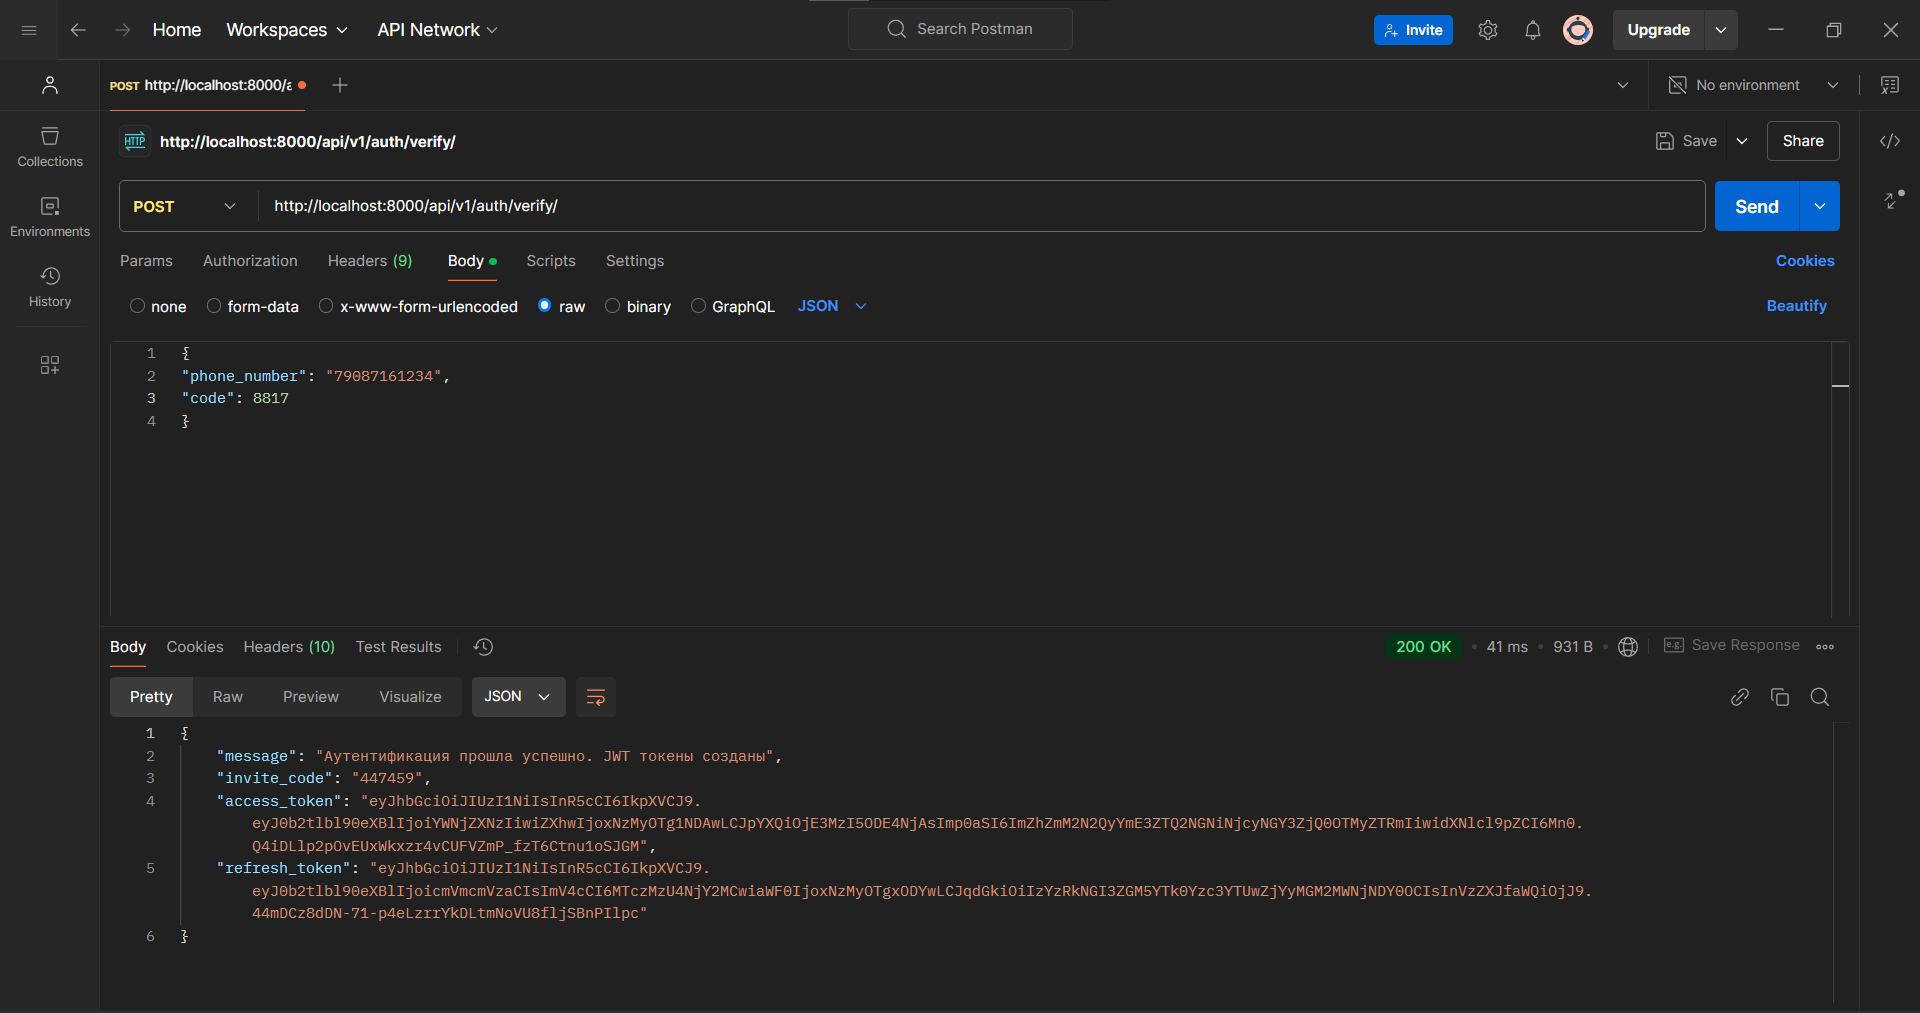
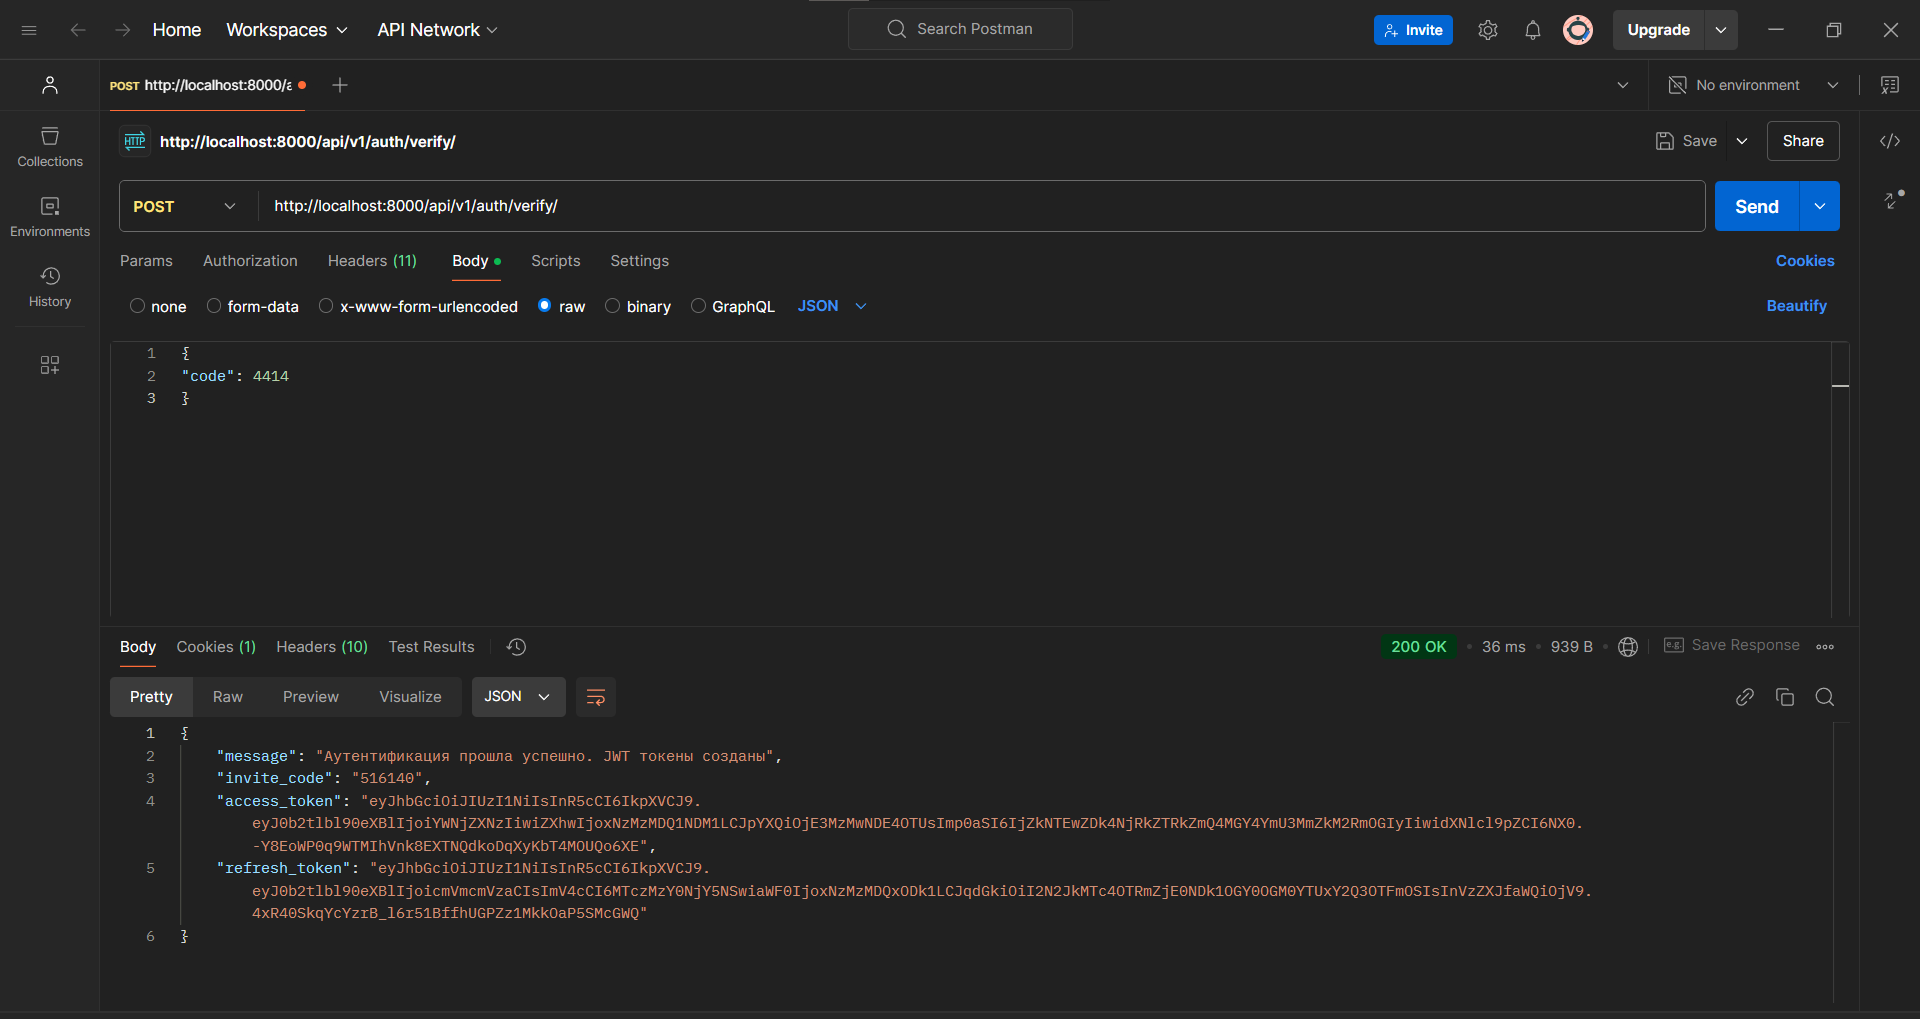
add openapi schemas and add storing a phone number in a session

diff --git a/backend/users/views.py b/backend/users/views.py
@@ -2,7 +2,6 @@ import time
 
 from drf_yasg.utils import swagger_auto_schema
 from rest_framework import status
-from rest_framework.generics import ListCreateAPIView
 from rest_framework.permissions import AllowAny, IsAuthenticated
 from rest_framework.response import Response
 from rest_framework.views import APIView
@@ -12,11 +11,24 @@ from .models import AuthCode, User
 from .serializers import (AuthCodeSerializer, AuthSerializer,
                           InviteCodeSerializer, ProfileSerializer)
 
+from .schemas import (
+    auth_request_schema, auth_response_schema_201, auth_response_schema_400,
+    verify_request_schema, verify_response_schema_200, verify_response_schema_400,
+    profile_get_response_schema, invite_post_request_schema,
+    invite_post_response_schema_200, invite_post_response_schema_400
+)
+
 
 class AuthView(APIView):
     permission_classes = [AllowAny]
 
-    @swagger_auto_schema(request_body=AuthSerializer)
+    @swagger_auto_schema(
+        request_body=auth_request_schema,
+        responses={
+            201: auth_response_schema_201,
+            400: auth_response_schema_400,
+        }
+    )
     def post(self, request):
         serializer = AuthSerializer(data=request.data)
 
@@ -25,29 +37,38 @@ class AuthView(APIView):
 
             user, _ = User.objects.get_or_create(phone_number=phone_number)
             AuthCode.objects.create(user=user)
+            request.session['phone_number'] = phone_number
 
             time.sleep(2)
 
-            return Response({'message': 'Код отправлен'}, status=status.HTTP_200_OK)
+            return Response({'message': 'Код отправлен'}, status=status.HTTP_201_CREATED)
 
         return Response(serializer.errors, status=status.HTTP_400_BAD_REQUEST)
 
 
 class AuthVerifyCodeView(APIView):
 
-    @swagger_auto_schema(request_body=AuthCodeSerializer)
+    @swagger_auto_schema(
+        request_body=verify_request_schema,
+        responses={
+            200: verify_response_schema_200,
+            400: verify_response_schema_400,
+        }
+    )
     def post(self, request):
         serializer = AuthCodeSerializer(data=request.data)
         if serializer.is_valid():
 
-            phone_number = serializer.validated_data['phone_number']
+            phone_number = request.session.get('phone_number')
             code = serializer.validated_data['code']
+            if not phone_number:
+                return Response({'message': 'Сессия истекла, попробуйте заново'}, status=status.HTTP_400_BAD_REQUEST)
 
             try:
                 user = User.objects.get(phone_number=phone_number)
                 auth_code = AuthCode.objects.get(user=user, code=code)
             except (User.DoesNotExist, AuthCode.DoesNotExist):
-                return Response({'message': 'Неверный номер телефона или код'}, status=status.HTTP_400_BAD_REQUEST)
+                return Response({'message': 'Неверный код'}, status=status.HTTP_400_BAD_REQUEST)
 
             auth_code.delete()
 
@@ -70,12 +91,23 @@ class AuthVerifyCodeView(APIView):
 class ProfileView(APIView):
     permission_classes = [IsAuthenticated]
 
+    @swagger_auto_schema(
+        responses={
+            200: profile_get_response_schema
+        }
+    )
     def get(self, request, *args, **kwargs):
         user = request.user
         serializer = ProfileSerializer(user)
         return Response(serializer.data)
 
-    @swagger_auto_schema(request_body=InviteCodeSerializer)
+    @swagger_auto_schema(
+        request_body=invite_post_request_schema,
+        responses={
+            200: invite_post_response_schema_200,
+            400: invite_post_response_schema_400,
+        }
+    )
     def post(self, request, *args, **kwargs):
         serializer = InviteCodeSerializer(data=request.data)
         serializer.is_valid(raise_exception=True)

diff --git a/backend/users/schemas.py b/backend/users/schemas.py
@@ -1,0 +1,83 @@
+from drf_yasg import openapi
+
+# Request AuthView
+auth_request_schema = openapi.Schema(
+    type=openapi.TYPE_OBJECT,
+    properties={
+        'phone_number': openapi.Schema(type=openapi.TYPE_STRING, example='79087777777'),
+    },
+    required=['phone_number']
+)
+
+# Response AuthView
+auth_response_schema_201 = openapi.Schema(
+    type=openapi.TYPE_OBJECT,
+    properties={
+        'message': openapi.Schema(type=openapi.TYPE_STRING, example='Код отправлен'),
+    }
+)
+
+auth_response_schema_400 = openapi.Schema(
+    type=openapi.TYPE_OBJECT,
+    properties={
+        'phone_number': openapi.Schema(type=openapi.TYPE_STRING, example='Некорректный номер телефона'),
+    }
+)
+
+# Request AuthVerifyCodeView
+verify_request_schema = openapi.Schema(
+    type=openapi.TYPE_OBJECT,
+    properties={
+        'code': openapi.Schema(type=openapi.TYPE_INTEGER, example=1234),
+    },
+    required=['code']
+)
+
+# Response AuthVerifyCodeView
+verify_response_schema_200 = openapi.Schema(
+    type=openapi.TYPE_OBJECT,
+    properties={
+        'message': openapi.Schema(type=openapi.TYPE_STRING, example='Аутентификация прошла успешно. JWT токены созданы'),
+        'invite_code': openapi.Schema(type=openapi.TYPE_STRING, example='987654'),
+        'access_token': openapi.Schema(type=openapi.TYPE_STRING, example='eyJhbGciOiJIUzI1NiIsInR5cCI6IkpXVCJ9...'),
+        'refresh_token': openapi.Schema(type=openapi.TYPE_STRING, example='dGhpcyBpcyBhIHJlZnJlc2ggdG9rZW4uLi4u'),
+    }
+)
+
+verify_response_schema_400 = openapi.Schema(
+    type=openapi.TYPE_OBJECT,
+    properties={
+        'message': openapi.Schema(type=openapi.TYPE_STRING, example='Неверный код'),
+    }
+)
+
+# GET response ProfileView
+profile_get_response_schema = openapi.Schema(
+    type=openapi.TYPE_OBJECT,
+    properties={
+        'phone_number': openapi.Schema(type=openapi.TYPE_STRING, example='79087777777'),
+        'invite_code': openapi.Schema(type=openapi.TYPE_STRING, example='777777'),
+    }
+)
+
+invite_post_request_schema = openapi.Schema(
+    type=openapi.TYPE_OBJECT,
+    properties={
+        'invite_code': openapi.Schema(type=openapi.TYPE_STRING, example='123456'),
+    },
+    required=['invite_code']
+)
+
+invite_post_response_schema_200 = openapi.Schema(
+    type=openapi.TYPE_OBJECT,
+    properties={
+        'message': openapi.Schema(type=openapi.TYPE_STRING, example='Инвайт-код успешно активирован'),
+    }
+)
+
+invite_post_response_schema_400 = openapi.Schema(
+    type=openapi.TYPE_OBJECT,
+    properties={
+        'message': openapi.Schema(type=openapi.TYPE_STRING, example='Нельзя активировать свой же код'),
+    }
+)

diff --git a/backend/users/serializers.py b/backend/users/serializers.py
@@ -4,11 +4,10 @@ from .models import AuthCode, User
 
 
 class AuthCodeSerializer(serializers.ModelSerializer):
-    phone_number = serializers.CharField(max_length=12)
 
     class Meta:
         model = AuthCode
-        fields = ('phone_number', 'code',)
+        fields = ('code',)
 
 
 class AuthSerializer(serializers.Serializer):

diff --git a/README.md b/README.md
@@ -44,16 +44,15 @@ DATABASE_PORT=5432
 
 Основные эндпоинты:
 
-- **http://localhost:8000/api/v1/auth/entry/**: Используется для ввода номера телефона и генерации кода . Если пользователь с таким номером не существует, он создается.
+- **http://localhost:8000/api/v1/auth/entry/**: Используется для ввода номера телефона и генерации кода, а так же передачи номера телефона в сессию, для последущей верификации. Если пользователь с таким номером не существует, он создается.
   ```json
   {
     "phone_number": "79087777777"
   }
   ```
-- **http://localhost:8000/api/v1/auth/verify/**: Используется для подтверждения по коду. Фронт передает номер телефона и код который ввел пользователь. Для простоты код хранится в БД, а после входа удаляется, но я бы лучше использовал сессии. Так же, выдаются access_token и refresh_token.
+- **http://localhost:8000/api/v1/auth/verify/**: Используется для подтверждения по коду. Номер телефона хранится в сессии Для простоты код хранится в БД, а после входа удаляется, но я бы лучше использовал сессии. Так же, выдаются access_token и refresh_token.
   ```json
   {
-    "phone_number": "79087777777",
     "code": 1234
   }
   ```
